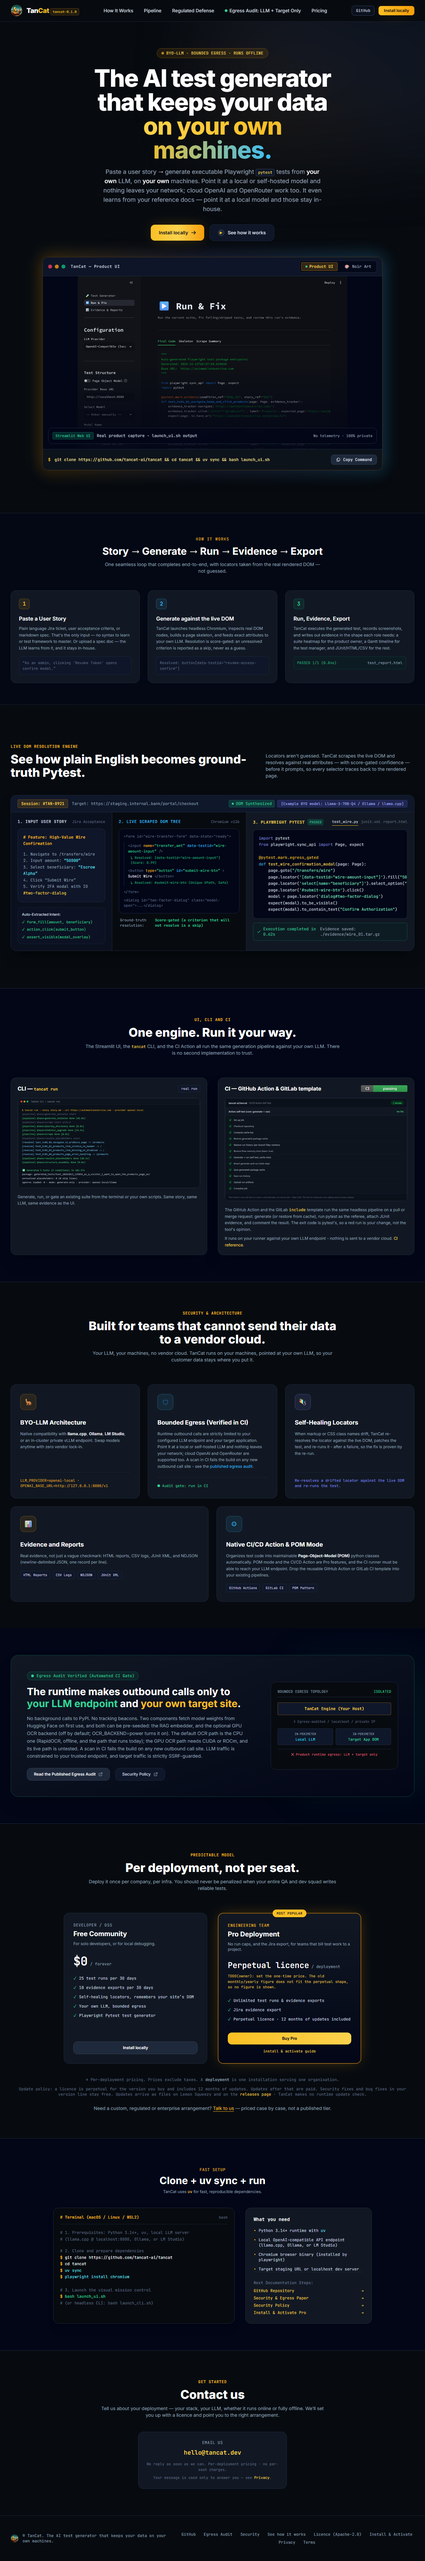
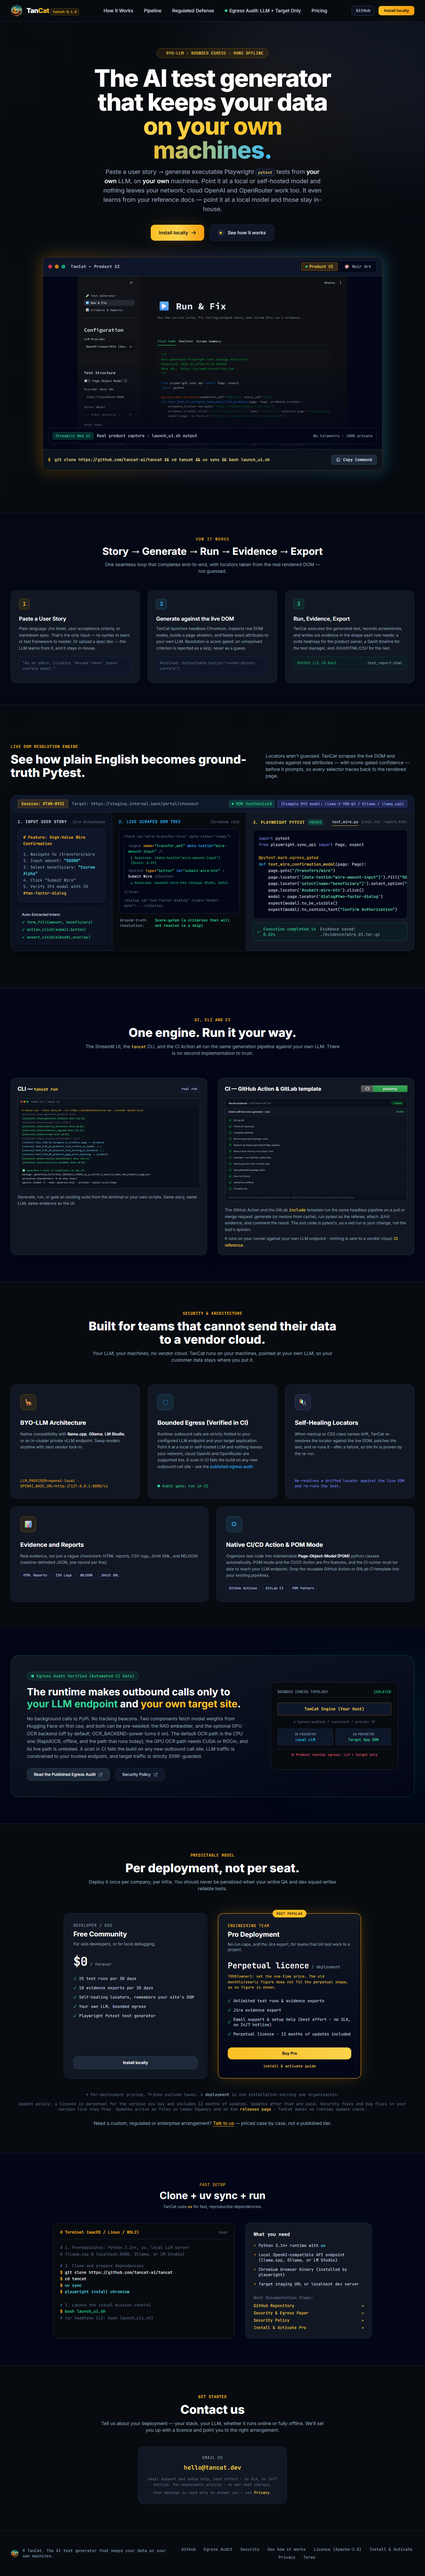
docs(support): restore Pro support with one plain definition across every surface (t-0803)
The owner approved support on Pro, but not a 24/7 hotline. Every customer
surface now states the same thing: email support at hello@tancat.dev, best
effort - no SLA, no 24/7 hotline - plus help getting set up, with no promised
response time.

- landing/index.html: the Pro card regains a Support bullet, and the contact
  blurb no longer implies a response time.
- docs/launch/lemon-squeezy-checklist.html: the Lemon Squeezy product feature
  list gains support.
- landing/terms.html, docs/implementation/tancat-pro-install-and-licence.html
  (the install/licence PDF source) and docs/user/reference/licensing.md are
  rewritten from "we reply as soon as we can" / "Support and onboarding
  bundle" to the one definition.
- landing/install.html footer line aligned.
- src/licensing/tiers.py: the internal canonical claim name follows.

The install PDF, og-card and preview captions were regenerated
(make_landing_assets.py) and landing/asset-sources.json updated.

diff --git a/landing/index.html b/landing/index.html
@@ -336,7 +336,7 @@
     <div><div class="text-xs font-mono uppercase text-amber-400 tracking-wider">Engineering Team</div><h3 class="text-xl font-bold text-white mt-1">Pro Deployment</h3><p class="text-slate-400 text-xs mt-2">No run caps, and the Jira export, for teams that bill test work to a project.</p>
     <div class="my-6"><span class="text-2xl font-black text-white font-mono">Perpetual licence</span><span class="text-slate-400 text-xs font-mono"> / deployment</span></div>
     <div class="-mt-4 mb-6 text-[11px] font-mono text-amber-300/90">TODO(owner): set the one-time price. The old monthly/yearly figure does not fit the perpetual shape, so no figure is shown.</div>
-    <ul class="space-y-3 text-xs text-slate-300 font-mono"><li class="flex items-center gap-2 text-emerald-400"><span>&#10003;</span><span class="text-slate-300">Unlimited test runs &amp; evidence exports</span></li><li class="flex items-center gap-2 text-emerald-400"><span>&#10003;</span><span class="text-slate-300">Jira evidence export</span></li><li class="flex items-center gap-2 text-emerald-400"><span>&#10003;</span><span class="text-slate-300">Perpetual licence &middot; 12 months of updates included</span></li></ul></div>
+    <ul class="space-y-3 text-xs text-slate-300 font-mono"><li class="flex items-center gap-2 text-emerald-400"><span>&#10003;</span><span class="text-slate-300">Unlimited test runs &amp; evidence exports</span></li><li class="flex items-center gap-2 text-emerald-400"><span>&#10003;</span><span class="text-slate-300">Jira evidence export</span></li><li class="flex items-center gap-2 text-emerald-400"><span>&#10003;</span><span class="text-slate-300">Email support &amp; setup help (best effort - no SLA, no 24/7 hotline)</span></li><li class="flex items-center gap-2 text-emerald-400"><span>&#10003;</span><span class="text-slate-300">Perpetual licence &middot; 12 months of updates included</span></li></ul></div>
     <div class="mt-8"><a class="w-full block text-center py-2.5 px-4 rounded-xl text-xs font-bold text-slate-950 bg-gradient-to-r from-amber-400 to-amber-300 hover:brightness-110 shadow-md transition-all" href="#contact" id="buy-pro" data-checkout-state="not-configured">Buy Pro</a></div>
     <p class="mt-3 text-center text-[11px] font-mono text-slate-500"><a class="text-amber-300 hover:underline" href="install.html">install &amp; activate guide</a></p>
   </div>
@@ -390,7 +390,7 @@
 <div class="mx-auto max-w-md bg-cardbg border border-slate-800 rounded-2xl p-6 text-center">
   <div class="text-xs font-mono text-slate-400 uppercase tracking-wider">Email us</div>
   <a class="mt-2 block text-lg font-bold text-amber-300 font-mono hover:text-amber-200 transition-colors" href="mailto:hello@tancat.dev">hello@tancat.dev</a>
-  <p class="mt-3 text-[11px] font-mono text-slate-500">We reply as soon as we can. Per-deployment pricing &middot; no per-seat charges.</p>
+  <p class="mt-3 text-[11px] font-mono text-slate-500">Email support and setup help, best effort - no SLA, no 24/7 hotline. Per-deployment pricing &middot; no per-seat charges.</p>
   <p class="mt-2 text-[11px] font-mono text-slate-500">Your message is used only to answer you &mdash; see <a class="text-amber-300 hover:underline" href="privacy.html">Privacy</a>.</p>
 </div>
 </div>

diff --git a/landing/terms.html b/landing/terms.html
@@ -92,7 +92,7 @@ footer{margin-top:56px;padding-top:20px;border-top:1px solid #1e293b;font:12px u
 <p>To the fullest extent the law allows, we are not liable for indirect or consequential loss, loss of profit, loss of data, or business interruption. Our total liability for any claim is limited to the amount you paid us in the 12 months before the claim. Nothing here limits liability that cannot be limited by law, including for death or personal injury caused by negligence, or for fraud.</p>
 
 <h2>Support</h2>
-<p>Email support for licensed tiers is provided at <a href="mailto:hello@tancat.dev">hello@tancat.dev</a>. We reply as soon as we can. Anything beyond that is agreed in writing with you.</p>
+<p>Licensed tiers include email support at <a href="mailto:hello@tancat.dev">hello@tancat.dev</a> and help getting set up. It is best effort: there is no SLA and no 24/7 hotline, and we do not promise a response time. Anything beyond that is agreed in writing with you.</p>
 
 <h2>Payment and refunds</h2>
 <p>Paid licences are sold through <a href="https://www.lemonsqueezy.com/terms" rel="noopener">Lemon Squeezy</a>, our merchant of record: the seller of record for the transaction, handling payment, tax and refunds under its own terms. If the software is not what you expected, contact us within 30 days of purchase and we will arrange a full refund through Lemon Squeezy. After 30 days, refunds are at our discretion and where the law requires one.</p>

diff --git a/docs/launch/lemon-squeezy-checklist.html b/docs/launch/lemon-squeezy-checklist.html
@@ -84,7 +84,7 @@
       <tr><td>Pro &mdash; monthly</td><td>$99</td><td>Every month</td></tr>
       <tr><td>Pro &mdash; yearly</td><td>$990</td><td>Every year</td></tr>
     </table>
-    Put the same feature list on both (unlimited runs and evidence exports, POM mode, multi-site suites, CI/CD Action, a perpetual licence for the version bought with 12 months of updates included, one deployment &mdash; whole team, no per-seat charge).
+    Put the same feature list on both: unlimited runs and evidence exports, POM mode, multi-site suites, CI/CD Action, email support and help getting set up (best effort - no SLA, no 24/7 hotline), a perpetual licence for the version bought with 12 months of updates included, and one deployment (whole team, no per-seat charge).
     <div class="muted">Update entitlement: 12 months of updates included; later updates are paid. Security fixes and bug fixes within the bought version line stay free. Updates are delivered as files on Lemon Squeezy and on the releases page; the product itself never checks for updates.</div>
     <div class="muted">Where: dashboard &rarr; Products &rarr; New product.</div>
   </li>

diff --git a/landing/install.html b/landing/install.html
@@ -130,7 +130,7 @@ bash launch_ui.sh</code></pre>
       <li><a class="text-amber-300 hover:underline" href="tancat-pro-install-and-licence.pdf">Download the install &amp; licence PDF</a></li>
       <li><a class="text-amber-300 hover:underline" href="https://github.com/tancat-ai/tancat/blob/main/docs/security/license-key-ops.md" rel="noopener noreferrer" target="_blank">How licence keys are issued (key operations)</a></li>
       <li><a class="text-amber-300 hover:underline" href="terms.html">Licence terms</a> &middot; <a class="text-amber-300 hover:underline" href="privacy.html">Privacy</a></li>
-      <li><a class="text-amber-300 hover:underline" href="mailto:hello@tancat.dev">hello@tancat.dev</a> &mdash; we reply as soon as we can.</li>
+      <li><a class="text-amber-300 hover:underline" href="mailto:hello@tancat.dev">hello@tancat.dev</a> &mdash; email support, best effort (no SLA, no 24/7 hotline).</li>
     </ul>
   </section>
 </main>

diff --git a/docs/implementation/tancat-pro-install-and-licence.html b/docs/implementation/tancat-pro-install-and-licence.html
@@ -62,7 +62,7 @@ bash launch_cli.sh     # interactive CLI</pre>
 <p>Updates are files, not a service: they arrive on Lemon Squeezy and on the releases page (github.com/tancat-ai/tancat/releases), and you choose when to install them. The product makes <strong>no runtime update check</strong> and calls no vendor server.</p>
 
 <h2>7. Support</h2>
-<p>Email <strong>hello@tancat.dev</strong>. We reply as soon as we can.</p>
+<p>Email <strong>hello@tancat.dev</strong> for support and help getting set up. It is best effort - no SLA and no 24/7 hotline - and we do not promise a response time.</p>
 
 <p class="foot">TanCat is a sole-trader business based in the United Kingdom. Licence terms: https://tancat.dev/terms.html &middot; Privacy: https://tancat.dev/privacy.html<br/>Merchant of record: Lemon Squeezy. Their terms govern the purchase transaction; these licence terms govern the software.</p>
 </body></html>

diff --git a/src/licensing/tiers.py b/src/licensing/tiers.py
@@ -59,7 +59,7 @@ FEATURES = {
     "multi_site": "multi-site suites",
     "ci_runs": "CI / headless runs",
     "private_network": "private-network target support",
-    "support": "support + onboarding bundle",
+    "support": "email support (best effort) + setup help",
 }
 
 

diff --git a/CHANGELOG.md b/CHANGELOG.md
@@ -10,6 +10,7 @@ Version numbers follow [Semantic Versioning](https://semver.org/spec/v2.0.0.html
 ## [Unreleased]
 
 ### Changed
+- **Support restored on the Pro surface with one plain definition (2026-10-13, t-0803):** the owner approved support on Pro, but not a 24/7 hotline, so every surface now states the same thing: email support at hello@tancat.dev, best effort - no SLA, no 24/7 hotline - plus help getting set up, with no promised response time. The Pro card on `landing/index.html` regains a support bullet, the Lemon Squeezy product feature list (`docs/launch/lemon-squeezy-checklist.html`) gains it, and `landing/terms.html`, the install/licence PDF (`docs/implementation/tancat-pro-install-and-licence.html`) and `docs/user/reference/licensing.md` were rewritten from "we reply as soon as we can" / "Support and onboarding bundle" to the one definition. The landing contact blurb and `landing/install.html` are aligned too, and the internal canonical claim name (`src/licensing/tiers.py` `FEATURES["support"]`) follows. The install PDF and the landing captions were regenerated (`make_landing_assets.py`); `landing_assets_guard.py --check` green; site-health + asset-guard + licence tests 48 passed; `mkdocs build --strict` clean.
 - **Held-out gate re-measured on current main with the accuracy A/C fixes: 94/113 (83.2%), 0 hollow passes - no movement (2026-10-13, t-0759):** same settings as the 2026-10-12 baseline (`Qwen3.8-27B-UD-Q4_K_XL_v2.gguf`, openai-local at http://127.0.0.1:8080/v1, thinking off, temp 0.0, RAG on, `full --regenerate`, identical golden dataset). The A/C fixes (PR #91, t-0754) changed the emitted code for eval-002/007/008 but every story's correct count is unchanged and the per-class gate-1 breakdown is identical (wrong_element 14, target_never_captured 3, weakened_to_visible_element 1, element_instead_of_page_arrival 1). Tests passed fell 44 -> 40 (some wrong-element asserts become honest skips); gate 2 stays 0. eval-004 scored 4/7 again. Record: `docs/sessions/2026-10-13_heldout_gates.md`; `scripts/eval/known_gate_scores.json` (2026-10-12 under `previous`, 82/113 under `comparison.history`); re-score input committed at `fixtures/heldout_runs/2026-10-13/`.
 - **Landing page copy corrected against the t-0770 audit - first pass (2026-10-13, t-0771):** factual fixes only; the owner publishes, then does a second round (self-healing on tancat.dev, codegen/manual correction). The security section now says "Built for teams that cannot send their data to a vendor cloud" with the line "Your LLM, your machines, no vendor cloud" (was "Built for the regulated buyer" plus a claim about competitors' shared servers). The fabricated `ENV: TANCAT_LLM_URL=...` hint is replaced by the real `LLM_PROVIDER=openai-local` / `OPENAI_BASE_URL=http://127.0.0.1:8080/v1`. The egress copy no longer calls the CI scan "AST" (it is a regex scan) and no longer names the internal script on the page - it states the guarantee and links the published audit; the false "no model weights downloaded at runtime" is qualified (the RAG embedder fetches its model from Hugging Face on first use, and can be pre-seeded). The CI card drops "in minutes" and states CI/POM are Pro and the runner must reach your LLM. Self-healing now reads as re-resolve against the live DOM, patch, re-run - after a failure (drops "before CI turns red"). The evidence card drops "audit-grade" and "deterministic DOM bundles" and explains NDJSON. The Free tier shows 10 evidence exports per 30 days (was "unlimited"). The Pro card drops the `$99 / month` and `$990 / year` lines (they do not fit the perpetual-licence shape) and the "Secure checkout by Lemon Squeezy" claim (`checkoutUrl` is empty, so Buy Pro falls back to `#contact`); it shows the perpetual shape with a clearly marked TODO for the one-time price. Landing assets regenerated (og-card, both previews, `asset-sources.json`); `landing_assets_guard.py --check` green; site-health + asset-guard tests 20 passed.
 - **The full six-mode Action self-test is now a required release step (2026-10-13, t-0768):** `release.yml` gated on `ci.yml` only, and the six-mode suite (`action-self-test-full` in `ci-cd-action.yml`) was gated to `schedule`/`workflow_dispatch`, so a release could ship without it ever running on the tag. The suite is now a reusable workflow (`.github/workflows/action-self-test-full.yml`, `on: workflow_call`); `release.yml` calls it as the job `full-self-test`, and `build` (and so `release` and `move-v1`) `needs: [gates, full-self-test]` - all six modes must be green on the release commit. The nightly `schedule` and `workflow_dispatch` triggers still run the same suite from `ci-cd-action.yml`; the nightly failure issue moved to its own `nightly-issue-on-failure` job there (so a release failure does not file a nightly issue). `tests/test_release_workflows.py` pins the gate (release calls the reusable workflow and depends on it; the reusable workflow has `workflow_call`; the nightly triggers and caller are unchanged).

diff --git a/docs/user/reference/licensing.md b/docs/user/reference/licensing.md
@@ -20,10 +20,12 @@ tells the app what the deployment is allowed to do.
 | Page Object Model mode | - | Yes |
 | Multi-site suites | - | Yes |
 | CI / headless runs | - | Yes |
-| Support and onboarding bundle | - | Yes |
+| Support | - | Email support, best effort - help getting set up |
 | Updates | - | 12 months included; later updates paid |
 | Runs | 25 per 30 days | Unlimited |
 | Evidence exports | 10 per 30 days | Unlimited |
+
+**Support.** Pro includes email support at hello@tancat.dev and help getting set up. It is best effort: there is no SLA and no 24/7 hotline, and we do not promise a response time.
 
 The two counters are shown live in the UI sidebar.
 
